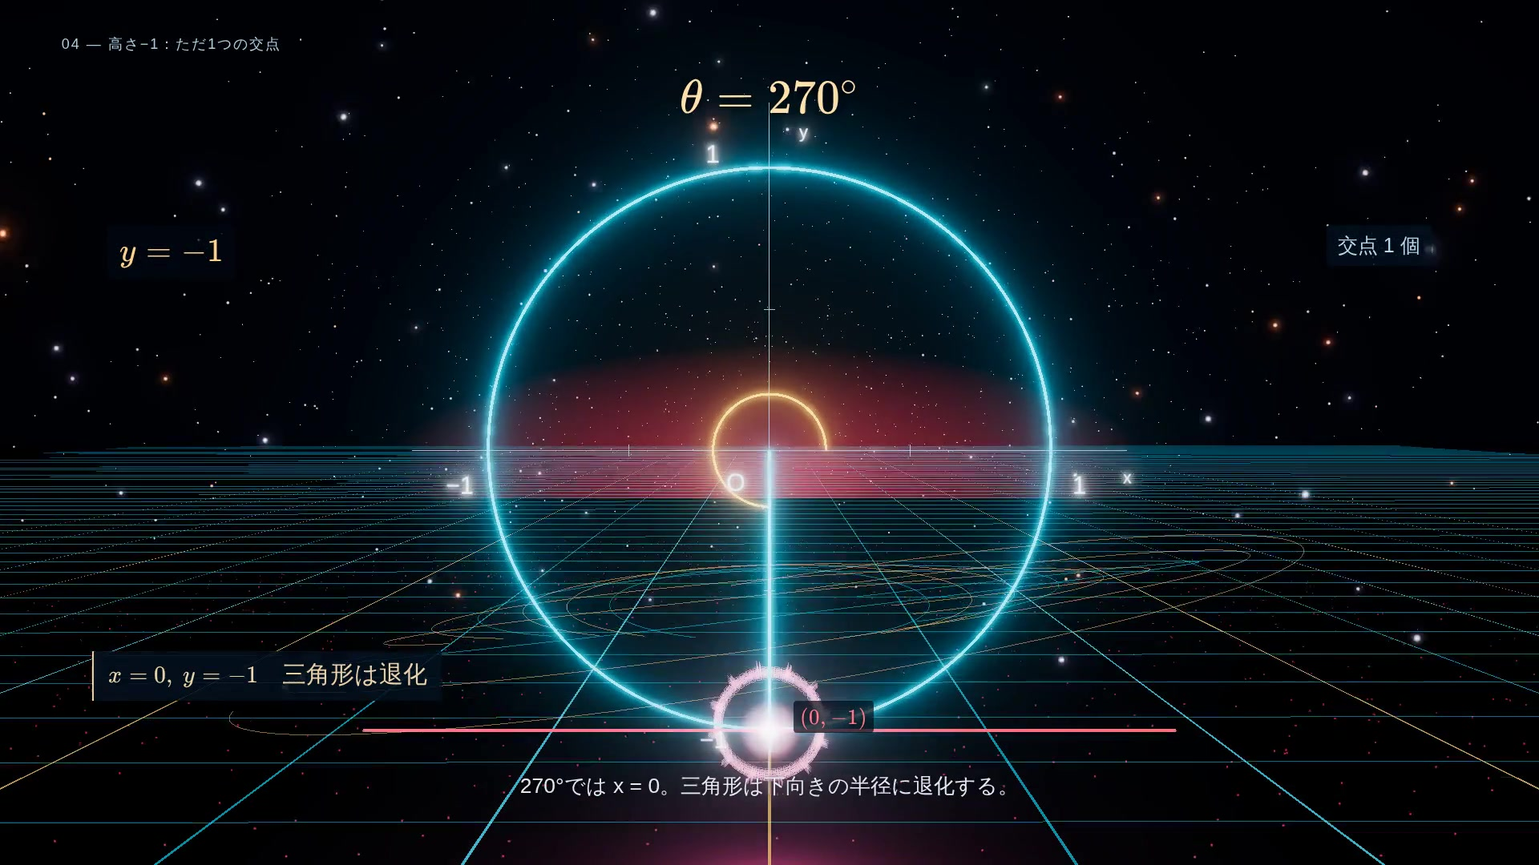
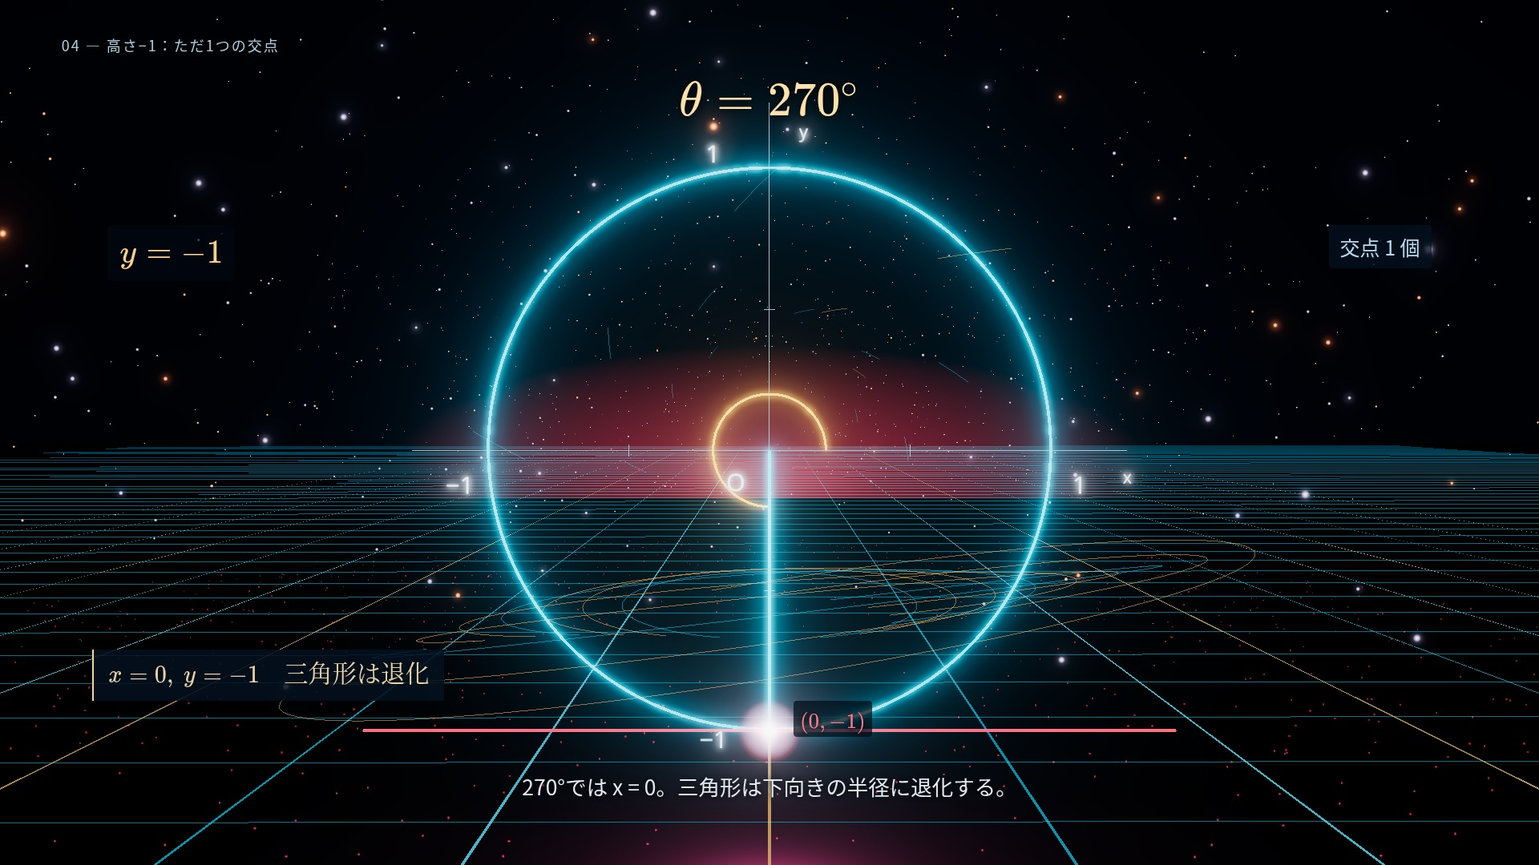
Verify quiet background and refresh range notation and cache revision

diff --git a/materials/trig-equation-unit-circle/index.html b/materials/trig-equation-unit-circle/index.html
@@ -1,4 +1,4 @@
 <!doctype html><html lang="ja"><head><meta charset="utf-8"><meta name="viewport" content="width=device-width,initial-scale=1,viewport-fit=cover"><meta name="theme-color" content="#020915"><title>三角方程式と単位円｜90秒映画と3D探究</title></head><body><header class="page-chrome"><a href="../../">← 教材ライブラリ</a><span>MATHEMATICS I · EXTENDED STUDY</span></header><main><div class="intro page-chrome"><p>THREE POINTS. ONE CIRCLE.</p><h1>三角方程式と単位円</h1><p class="lead">式をほどく。高さを探す。光の交点から、角度が見える。</p></div><nav class="tabs page-chrome" role="tablist" aria-label="教材の部"><button role="tab" id="movie-tab" aria-selected="true" aria-controls="movie-panel">A / 映画で理解する</button><button role="tab" id="lab-tab" aria-selected="false" aria-controls="lab-panel">B / 自分で探究する</button></nav>
-<section id="movie-panel" role="tabpanel" aria-labelledby="movie-tab"><div id="film-stage" class="stage"><video id="master" controls playsinline preload="metadata" poster="../../media/trig-equation-unit-circle-poster.jpg" src="../../media/trig-equation-unit-circle-90s.mp4?v=unit-circle-cinema-v1"></video><div id="webgl-layer" hidden><div id="world"></div><div id="fallback" hidden></div><div id="film-overlay"><div id="scene-title"></div><div id="algebra-main"><span>2</span><span class="power"><span class="sin-slot"><span class="old-sin">sinθ</span><span class="new-t">t</span></span><sup>2</sup></span><span>+</span><span class="sin-slot"><span class="old-sin">sinθ</span><span class="new-t">t</span></span><span>− 1 = 0</span></div><div id="substitution"></div><div id="range-box"><span>高さ t</span><div class="range-track"><i id="range-dot"></i></div><b>1</b><b>−1</b><output id="range-value"></output></div><div id="factor-main"></div><div id="factor-cards"><div class="factor gold"><div id="factor-gold"></div><div class="root" id="root-gold"></div></div><div class="factor red"><div id="factor-red"></div><div class="root" id="root-red"></div></div></div><div id="main-equation"></div><div id="line-tag"></div><div id="right-coordinate" class="point-label gold"></div><div id="left-coordinate" class="point-label blue"></div><div id="bottom-coordinate" class="point-label red"></div><div id="triangle-label"></div><div id="count-tag"></div><div id="angle-conversions"><div class="gold" id="convert-0"></div><div class="blue" id="convert-1"></div><div class="red" id="convert-2"></div></div><div id="film-caption"></div><div id="fade"></div></div></div></div>
-<div class="film-controls page-chrome"><button id="play">▶ 再生</button><button id="pause">Ⅱ 停止</button><button id="restart">↺ 最初から</button><input id="film-seek" type="range" min="0" max="90" value="0" step=".01" aria-label="映画の再生位置"><output id="film-clock">00:00 / 01:30</output></div><div class="chapters page-chrome"><button data-scene="0">01 <span>置き換え</span><small>00:00</small></button><button data-scene="12">02 <span>因数分解</span><small>00:12</small></button><button data-scene="25">03 <span>2つの交点</span><small>00:25</small></button><button data-scene="48">04 <span>1つの接点</span><small>00:48</small></button><button data-scene="65">05 <span>弧度法へ</span><small>01:05</small></button></div><div class="film-links page-chrome"><button id="live-film">3D空間で再生</button><button id="short-film">縦型30秒を再生</button><a id="download-short" href="../../media/trig-equation-unit-circle-30s.mp4?v=unit-circle-cinema-v1" download>↓ 30秒版MP4を保存</a><a href="../../media/trig-equation-unit-circle-90s.mp4?v=unit-circle-cinema-v1" download>90秒版を保存</a></div><p class="under-note page-chrome">動画の終了後、同じ単位円の探究へ進みます。動く小数表示は丸めた参考値、解の分数は正確な値です。音声はありません。</p></section>
+<section id="movie-panel" role="tabpanel" aria-labelledby="movie-tab"><div id="film-stage" class="stage"><video id="master" controls playsinline preload="metadata" poster="../../media/trig-equation-unit-circle-poster.jpg" src="../../media/trig-equation-unit-circle-90s.mp4?v=unit-circle-cinema-v2"></video><div id="webgl-layer" hidden><div id="world"></div><div id="fallback" hidden></div><div id="film-overlay"><div id="scene-title"></div><div id="algebra-main"><span>2</span><span class="power"><span class="sin-slot"><span class="old-sin">sinθ</span><span class="new-t">t</span></span><sup>2</sup></span><span>+</span><span class="sin-slot"><span class="old-sin">sinθ</span><span class="new-t">t</span></span><span>− 1 = 0</span></div><div id="substitution"></div><div id="range-box"><span>高さ t</span><div class="range-track"><i id="range-dot"></i></div><b>1</b><b>−1</b><output id="range-value"></output></div><div id="factor-main"></div><div id="factor-cards"><div class="factor gold"><div id="factor-gold"></div><div class="root" id="root-gold"></div></div><div class="factor red"><div id="factor-red"></div><div class="root" id="root-red"></div></div></div><div id="main-equation"></div><div id="line-tag"></div><div id="right-coordinate" class="point-label gold"></div><div id="left-coordinate" class="point-label blue"></div><div id="bottom-coordinate" class="point-label red"></div><div id="triangle-label"></div><div id="count-tag"></div><div id="angle-conversions"><div class="gold" id="convert-0"></div><div class="blue" id="convert-1"></div><div class="red" id="convert-2"></div></div><div id="film-caption"></div><div id="fade"></div></div></div></div>
+<div class="film-controls page-chrome"><button id="play">▶ 再生</button><button id="pause">Ⅱ 停止</button><button id="restart">↺ 最初から</button><input id="film-seek" type="range" min="0" max="90" value="0" step=".01" aria-label="映画の再生位置"><output id="film-clock">00:00 / 01:30</output></div><div class="chapters page-chrome"><button data-scene="0">01 <span>置き換え</span><small>00:00</small></button><button data-scene="12">02 <span>因数分解</span><small>00:12</small></button><button data-scene="25">03 <span>2つの交点</span><small>00:25</small></button><button data-scene="48">04 <span>1つの接点</span><small>00:48</small></button><button data-scene="65">05 <span>弧度法へ</span><small>01:05</small></button></div><div class="film-links page-chrome"><button id="live-film">3D空間で再生</button><button id="short-film">縦型30秒を再生</button><a id="download-short" href="../../media/trig-equation-unit-circle-30s.mp4?v=unit-circle-cinema-v2" download>↓ 30秒版MP4を保存</a><a href="../../media/trig-equation-unit-circle-90s.mp4?v=unit-circle-cinema-v2" download>90秒版を保存</a></div><p class="under-note page-chrome">動画の終了後、同じ単位円の探究へ進みます。動く小数表示は丸めた参考値、解の分数は正確な値です。音声はありません。</p></section>
 <section id="lab-panel" role="tabpanel" aria-labelledby="lab-tab" hidden><div class="lab-header"><div><p class="eyebrow">YOUR TURN</p><h2>高さを合わせて、角度を見つけよう。</h2></div><button id="reset">↺ 探究をリセット</button></div><div class="lab-layout"><div class="lab-visual"><div class="view-tools"><div role="group" aria-label="表示次元"><button id="view2d" aria-pressed="true">2D 正面</button><button id="view3d" aria-pressed="false">3D 回転</button></div><span id="view-help">正面から座標を確認</span></div><div id="lab-canvas" class="stage"></div><div class="measurements"><div><small>現在の角度</small><strong id="angle-value"></strong></div><div><small>sinθ = 高さ</small><strong id="sin-value"></strong></div><div><small>cosθ = 横の座標</small><strong id="cos-value"></strong></div></div><p id="match-feedback" role="status" aria-live="polite"></p><p id="degenerate-note"></p></div><aside class="lab-controls"><fieldset><legend>角度の範囲</legend><div class="segmented"><button id="range-extended" aria-pressed="true">発展 0°≦θ&lt;360°</button><button id="range-math1" aria-pressed="false">数学Ⅰ 0°〜180°</button></div><p id="domain-note">360°は0°と同じ点。解の範囲は360°未満です。</p></fieldset><fieldset><legend>半径を回す</legend><div class="label-row"><label for="angle-slider">角度 θ</label><span>1°刻み</span></div><input id="angle-slider" type="range" min="0" max="360" step="1" value="0"><div class="scale"><span>0°</span><span id="angle-max">360°</span></div><div class="segmented"><button id="unit-deg" aria-pressed="true">度数法 °</button><button id="unit-rad" aria-pressed="false">弧度法 rad</button></div></fieldset><fieldset><legend>水平線を上下する</legend><div class="label-row"><label for="height-slider">y = k</label><output id="height-value">0.50</output></div><input id="height-slider" type="range" min="-1" max="1" step=".01" value=".5"><div class="scale"><span>−1</span><span>1</span></div><div class="height-presets"><button data-height=".5">y = ½</button><button data-height="-1">y = −1</button><button data-height="1">y = 1</button></div><p id="intersection-count"></p><p id="allowed-count"></p></fieldset><fieldset><legend>発見したあとに</legend><button id="reveal" class="primary">1 / 因数分解を確認</button><p id="reveal-hint">答えはまだ隠れています。交点に半径の先端を合わせてみましょう。</p><div id="solution-jumps" hidden><button data-angle="30">30°</button><button data-angle="150">150°</button><button data-angle="270">270°</button></div></fieldset></aside></div><div id="answer-panel" hidden><div id="answer-algebra"></div><div id="answer-coordinates"></div><div id="answer-angles"></div><p id="math1-answer-note" hidden>上半円の高さは0以上なので、t=−1を除きます。</p></div><details class="math-note"><summary>数学Ⅰと発展の違い</summary><p>数学Ⅰの通常の範囲 0°≦θ≦180° では、単位円の上半分を調べます。sinθは負にならないため、sinθ=−1 の解はありません。元の方程式の解は30°と150°です。</p><p>0≦θ&lt;2π へ広げると、下半分の270°（<span id="note-radian"></span>）も解になります。</p></details></section><footer class="page-chrome">GEOMETRY IN MOTION <a href="./verification/">シーンと検証結果を見る →</a></footer></main><script type="module" src="./main.js"></script></body></html>

diff --git a/materials/trig-equation-unit-circle/verification/index.html b/materials/trig-equation-unit-circle/verification/index.html
@@ -1,1 +1,1 @@
-<!doctype html><html lang="ja"><meta charset="utf-8"><meta name="viewport" content="width=device-width,initial-scale=1"><title>三角方程式と単位円｜シーン確認</title><style>*{box-sizing:border-box}body{margin:0 auto;max-width:1500px;padding:30px;background:#030a15;color:#d9ebf5;font:14px/1.8 sans-serif}a{color:#e3c182}h1{font-size:24px;font-weight:500}main{display:grid;grid-template-columns:repeat(auto-fit,minmax(min(100%,550px),1fr));gap:22px}figure{margin:0;background:#0a1929;border:1px solid #2b455c;border-radius:7px;overflow:hidden}img{width:100%;display:block}figcaption{padding:15px}b{color:#e6c589;font-weight:400}.portrait img{width:auto;max-width:100%;max-height:650px;margin:auto}p{color:#91adc5}</style><a href="../">← 教材へ戻る</a><h1>三角方程式と単位円｜映画と探究の確認</h1><p>完成したMP4から取り出した映像と、実際の操作画面です。背景のリング・格子・光・粒子は数学の出来事と同じ時刻で変化します。</p><main><figure><img src="./8.jpg" alt="tへの置き換えと単位円、−1〜1の範囲"><figcaption><b>01 / 8秒：置き換えと範囲</b><br>sinθがtへ移動・縮小。単位円の高さと光の数直線が同期。</figcaption></figure><figure><img src="./20.jpg" alt="金色と赤色に因数が分裂した3Dトンネル"><figcaption><b>02 / 20秒：因数分解</b><br>2つの因数と、背景のリングが別の方向へ分かれる。</figcaption></figure><figure><img src="./36.jpg" alt="高さ1/2の水平線と2つの交点、30度の直角三角形"><figcaption><b>03 / 36秒：右の交点は30°</b><br>水平線・交点・半径・直角三角形を同じ座標から構築。</figcaption></figure><figure><img src="./43.jpg" alt="150度へ回転した半径と、変形した直角三角形"><figcaption><b>03 / 43秒：左の交点は150°</b><br>反時計回りに回転しても、終点の高さは同じ半分。</figcaption></figure><figure><img src="./58.jpg" alt="単位円の最下点、270度と退化した三角形"><figcaption><b>04 / 58秒：最下点は1つだけ</b><br>x=0、y=−1。三角形は通常の三角形として表示せず、半径へ退化。</figcaption></figure><figure><img src="./82.jpg" alt="3つの解を弧度法の分数で表示"><figcaption><b>05 / 82秒：3つの解</b><br>3つの解を、πを使う縦の分数で表示。</figcaption></figure><figure class="portrait"><img src="./portrait-12.jpg" alt="縦型の30秒映画"><figcaption><b>縦型 / 2つの交点</b><br>縦9:16の画角に、数式・図形・座標を配置。</figcaption></figure><figure class="portrait"><img src="./lab-390.jpg" alt="スマートフォンの探究操作画面"><figcaption><b>探究 / タッチ操作と段階的な解答</b><br>角度・高さ・範囲・2D/3D・度/ラジアンを切り替える。</figcaption></figure><figure><img src="./4.5.jpg" alt="4.5秒 / sinθからtへの変形途中"><figcaption><b>4.5秒 / sinθからtへの変形途中</b><br>文字が縮小・回転・移動して、同じ式のtへ変わる。</figcaption></figure><figure><img src="./22.jpg" alt="22秒 / 2つのtの値"><figcaption><b>22秒 / 2つのtの値</b><br>金色と赤色で、半分と−1の2つの解を示す。</figcaption></figure><figure><img src="./49.jpg" alt="49秒 / 赤い水平線の下降"><figcaption><b>49秒 / 赤い水平線の下降</b><br>水平線の高さと、2つの交点が連動して動く。</figcaption></figure></main></html>
+<!doctype html><html lang="ja"><meta charset="utf-8"><meta name="viewport" content="width=device-width,initial-scale=1"><title>三角方程式と単位円｜シーン確認</title><style>*{box-sizing:border-box}body{margin:0 auto;max-width:1500px;padding:30px;background:#030a15;color:#d9ebf5;font:14px/1.8 sans-serif}a{color:#e3c182}h1{font-size:24px;font-weight:500}main{display:grid;grid-template-columns:repeat(auto-fit,minmax(min(100%,550px),1fr));gap:22px}figure{margin:0;background:#0a1929;border:1px solid #2b455c;border-radius:7px;overflow:hidden}img{width:100%;display:block}figcaption{padding:15px}b{color:#e6c589;font-weight:400}.portrait img{width:auto;max-width:100%;max-height:650px;margin:auto}p{color:#91adc5}</style><a href="../">← 教材へ戻る</a><h1>三角方程式と単位円｜映画と探究の確認</h1><p>完成したMP4から取り出した映像と、実際の操作画面です。背景の光跡・格子・光・粒子は数学の出来事と同じ時刻で変化します。</p><main><figure><img src="./8.jpg" alt="tへの置き換えと単位円、−1〜1の範囲"><figcaption><b>01 / 8秒：置き換えと範囲</b><br>sinθがtへ移動・縮小。単位円の高さと光の数直線が同期。</figcaption></figure><figure><img src="./20.jpg" alt="金色と赤色に因数が分裂した3D空間"><figcaption><b>02 / 20秒：因数分解</b><br>2つの因数と、背景の光跡が別の方向へ分かれる。</figcaption></figure><figure><img src="./36.jpg" alt="高さ1/2の水平線と2つの交点、30度の直角三角形"><figcaption><b>03 / 36秒：右の交点は30°</b><br>水平線・交点・半径・直角三角形を同じ座標から構築。</figcaption></figure><figure><img src="./43.jpg" alt="150度へ回転した半径と、変形した直角三角形"><figcaption><b>03 / 43秒：左の交点は150°</b><br>反時計回りに回転しても、終点の高さは同じ半分。</figcaption></figure><figure><img src="./58.jpg" alt="単位円の最下点、270度と退化した三角形"><figcaption><b>04 / 58秒：最下点は1つだけ</b><br>x=0、y=−1。三角形は通常の三角形として表示せず、半径へ退化。</figcaption></figure><figure><img src="./82.jpg" alt="3つの解を弧度法の分数で表示"><figcaption><b>05 / 82秒：3つの解</b><br>3つの解を、πを使う縦の分数で表示。</figcaption></figure><figure class="portrait"><img src="./portrait-12.jpg" alt="縦型の30秒映画"><figcaption><b>縦型 / 2つの交点</b><br>縦9:16の画角に、数式・図形・座標を配置。</figcaption></figure><figure class="portrait"><img src="./lab-390.jpg" alt="スマートフォンの探究操作画面"><figcaption><b>探究 / タッチ操作と段階的な解答</b><br>角度・高さ・範囲・2D/3D・度/ラジアンを切り替える。</figcaption></figure><figure><img src="./4.5.jpg" alt="4.5秒 / sinθからtへの変形途中"><figcaption><b>4.5秒 / sinθからtへの変形途中</b><br>文字が縮小・回転・移動して、同じ式のtへ変わる。</figcaption></figure><figure><img src="./22.jpg" alt="22秒 / 2つのtの値"><figcaption><b>22秒 / 2つのtの値</b><br>金色と赤色で、半分と−1の2つの解を示す。</figcaption></figure><figure><img src="./49.jpg" alt="49秒 / 赤い水平線の下降"><figcaption><b>49秒 / 赤い水平線の下降</b><br>水平線の高さと、2つの交点が連動して動く。</figcaption></figure></main></html>

diff --git a/materials/trig-equation-unit-circle/main.js b/materials/trig-equation-unit-circle/main.js
@@ -43,7 +43,7 @@ function labUpdate(){const p=pointAt(lab.angle),hs=intersections(lab.k,lab.domai
 function activateLab(scroll=false){part='lab';playing=false;$('#master').pause();show('#movie-panel',false);show('#lab-panel',true);$('#movie-tab').setAttribute('aria-selected','false');$('#lab-tab').setAttribute('aria-selected','true');$('#lab-canvas').append($('#world'),$('#fallback'));initWorld();world?.resize();labUpdate();gsap.fromTo('#lab-panel',{opacity:0,y:12},{opacity:1,y:0,duration:.55});if(scroll)$('#lab-panel').scrollIntoView({behavior:'smooth',block:'start'});}
 function activateMovie(){part='movie';show('#lab-panel',false);show('#movie-panel',true);$('#movie-tab').setAttribute('aria-selected','true');$('#lab-tab').setAttribute('aria-selected','false');$('#webgl-layer').prepend($('#world'),$('#fallback'));world?.resize();if(live)renderFilm(time);}
 function liveMode(){activateMovie();edition=90;time=0;live=true;$('#master').pause();show('#master',false);show('#webgl-layer',true);$('#film-stage').classList.remove('portrait');world?.resize();renderFilm(0);last=performance.now();playing=true;}
-function nativeEdition(seconds){playing=false;live=false;edition=seconds;activateMovie();show('#webgl-layer',false);show('#master',true);$('#film-stage').classList.toggle('portrait',seconds===30);const v=$('#master');v.poster=seconds===30?'../../media/trig-equation-unit-circle-30s-poster.jpg':'../../media/trig-equation-unit-circle-poster.jpg';v.src=`../../media/trig-equation-unit-circle-${seconds}s.mp4?v=unit-circle-cinema-v1`;v.load();$('#film-seek').max=seconds;}
+function nativeEdition(seconds){playing=false;live=false;edition=seconds;activateMovie();show('#webgl-layer',false);show('#master',true);$('#film-stage').classList.toggle('portrait',seconds===30);const v=$('#master');v.poster=seconds===30?'../../media/trig-equation-unit-circle-30s-poster.jpg':'../../media/trig-equation-unit-circle-poster.jpg';v.src=`../../media/trig-equation-unit-circle-${seconds}s.mp4?v=unit-circle-cinema-v2`;v.load();$('#film-seek').max=seconds;}
 $('#movie-tab').onclick=activateMovie;$('#lab-tab').onclick=()=>activateLab();$('#live-film').onclick=liveMode;$('#short-film').onclick=()=>nativeEdition(30);$('#play').onclick=()=>{if(live){if(time>=edition)time=0;last=performance.now();playing=true;}else $('#master').play().catch(()=>liveMode());};$('#pause').onclick=()=>{playing=false;$('#master').pause();};$('#restart').onclick=()=>{if(live){time=0;playing=true;renderFilm(0);last=performance.now();}else{$('#master').currentTime=0;$('#master').play().catch(()=>liveMode());}};$('#film-seek').oninput=e=>{if(live){playing=false;renderFilm(+e.target.value);}else $('#master').currentTime=+e.target.value;};$$('[data-scene]').forEach(b=>b.onclick=()=>{if(edition!==90&&!live)nativeEdition(90);edition=90;const t=+b.dataset.scene+.45;if(live){playing=false;renderFilm(t);}else{const v=$('#master');if(v.readyState>=1)v.currentTime=t;else v.addEventListener('loadedmetadata',()=>v.currentTime=t,{once:true});}});$('#master').onended=()=>activateLab(true);$('#master').ontimeupdate=()=>{if(!live){$('#film-seek').value=$('#master').currentTime;$('#film-clock').textContent=`${formatTime($('#master').currentTime)} / ${formatTime(edition)}`;}};
 $('#angle-slider').oninput=e=>{lab.angle=+e.target.value;labUpdate();};$('#height-slider').oninput=e=>{lab.k=+e.target.value;labUpdate();};$$('[data-height]').forEach(b=>b.onclick=()=>{lab.k=+b.dataset.height;labUpdate();});$$('[data-angle]').forEach(b=>b.onclick=()=>{lab.angle=+b.dataset.angle;labUpdate();});$('#view2d').onclick=()=>{lab.view='2d';labUpdate();};$('#view3d').onclick=()=>{lab.view='3d';labUpdate();};$('#unit-deg').onclick=()=>{lab.unit='deg';labUpdate();};$('#unit-rad').onclick=()=>{lab.unit='rad';labUpdate();};$('#range-math1').onclick=()=>{lab.domain='math1';lab.angle=Math.min(lab.angle,180);labUpdate();};$('#range-extended').onclick=()=>{lab.domain='extended';labUpdate();};$('#reveal').onclick=()=>{lab.reveal=Math.min(3,lab.reveal+1);labUpdate();};$('#reset').onclick=()=>{lab={angle:0,k:.5,view:'2d',unit:'deg',domain:'extended',reveal:0};hitTime=-99;wasMatch=false;labUpdate();};
 $$('.old-sin').forEach((el,i)=>math(el,i===0?'\\sin^2\\theta':'\\sin\\theta'));$$('.new-t').forEach((el,i)=>math(el,i===0?'t^2':'t'));$('.power sup').remove();math('#factor-gold','2t-1=0');math('#factor-red','t+1=0');for(const [id,value]of[['#root-gold','\\frac12'],['#root-red','-1']]){$(id).innerHTML='<span class="root-old"></span><span class="root-new"></span>';math($(id).querySelector('.root-old'),`t=${value}`);math($(id).querySelector('.root-new'),`\\sin\\theta=${value}`);}

diff --git a/materials/trig-equation-unit-circle/README.md b/materials/trig-equation-unit-circle/README.md
@@ -13,12 +13,12 @@
 ## 映画と実際の3D
 
 - 0–12秒：sinθの文字が回転・縮小・移動しtになる。単位円と−1〜1の光の帯で範囲を示す。
-- 12–25秒：因数分解の等式を正確に展開。因数・光・幾何学トンネルが金と赤に分裂。tからsinθへ戻し、カメラがトンネルへ加速する。
+- 12–25秒：因数分解の等式を正確に展開。因数・光・奥行きのある光跡が金と赤に分裂。tからsinθへ戻し、カメラが光の流れに沿って加速する。
 - 25–48秒：粒子が単位円へ収束。水平線が伸び、実際に円と出会う時刻から衝撃波と粒子が放射。半径と直角三角形が30°から150°へ連動する。
 - 48–65秒：水平線が下降し、交点2点が1点へ合流。270°の半径は下向きになり、三角形は退化する。
 - 65–90秒：3点の半径と円弧が光り、円弧の成長と同期して度数法から弧度法の分数へ連続移動する。最後に3解を表示してカメラを引く。
 
-トンネル、格子、金色の軌道、床、交点、光源、星、衝撃波、放射粒子は実際の3Dオブジェクト。静止した背景画像は使わない。光の小さなビルボードはコードで生成した放射グラデーションで、背景の代用ではない。角度・因数分解・交点イベントから速度、色、リングの位置・回転・発光が変わる。
+光跡、格子、金色の軌道、床、交点、光源、星、衝撃波、放射粒子は実際の3Dオブジェクト。静止した背景画像は使わない。光の小さなビルボードはコードで生成した放射グラデーションで、背景の代用ではない。角度・因数分解・交点イベントから色、光跡の位置・回転・発光が変わる。
 
 ## 操作
 
@@ -51,3 +51,5 @@ npm run build
 下降する線が上半分にある間は交点が左右に広がり、その後に合流する。字幕は最下点を調べる表現とし、一様に近づくとは説明しない。
 
 動的な小数の読み取り値は表示桁で丸めた参考値。解の角度と座標は正確な分数・根号で示す。
+
+背景改訂 v2：□が連なる円環と周期的な伸縮を廃止し、固定形状の開いた光跡が奥へ流れる演出へ変更。範囲はKaTeXの `\leqq` と文字「≦」に統一。
